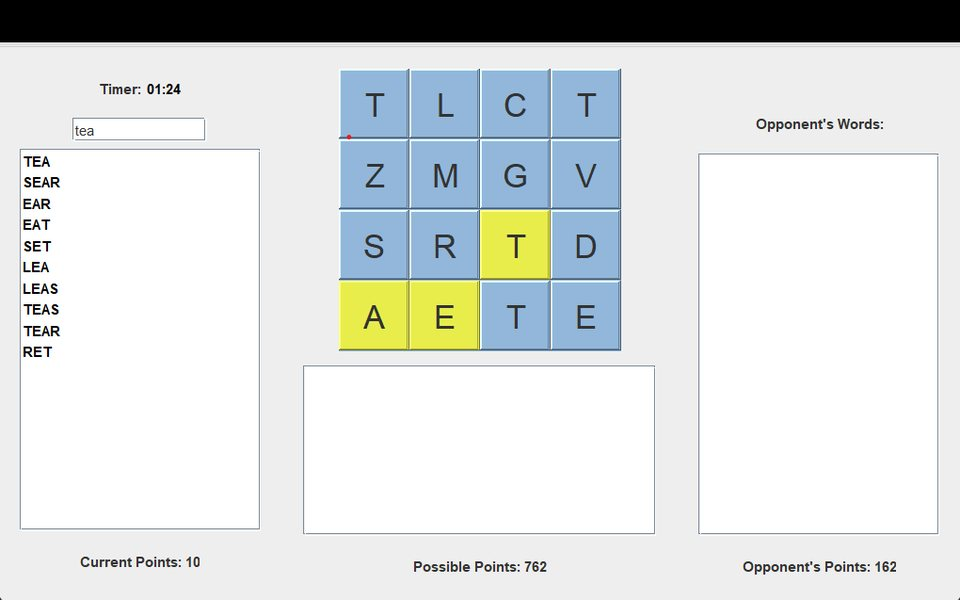
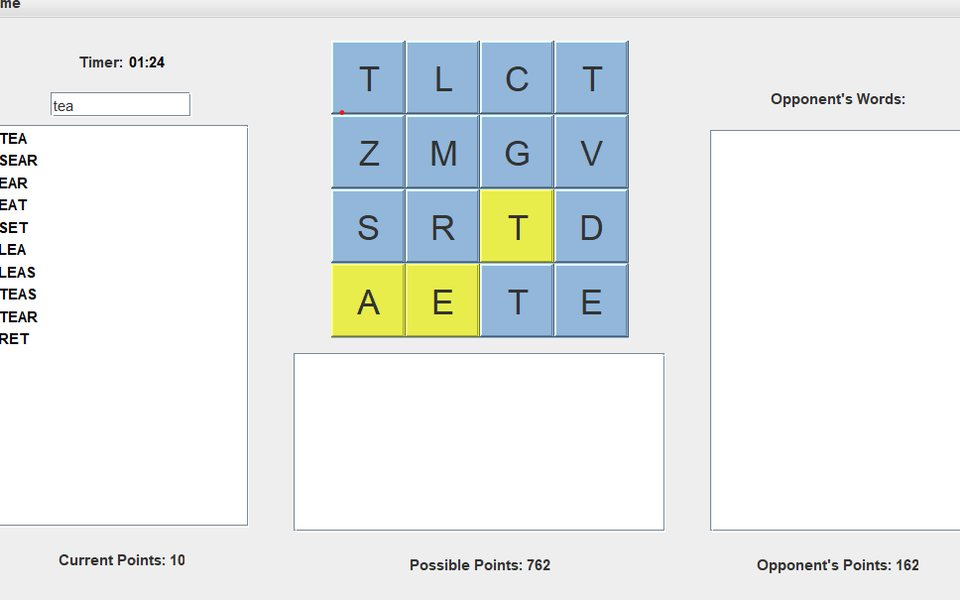
Projects: tighter card copy, fix transparent screenshot covers

diff --git a/_projects/ros.md b/_projects/ros.md
@@ -1,7 +1,7 @@
 ---
 layout: page 
 title: F1TENTH Race Vehicle
-description: A predictive ROS2 system using an Extended Kalman Filter and RGB-D sensor fusion to avoid high-speed dynamic obstacles.
+description: Predictive ROS 2 stack using an EKF and RGB-D sensor fusion to avoid fast obstacles.
 img: assets/img/covers/f1tenth.jpg
 importance: 3
 category: Projects

diff --git a/_projects/tsal.md b/_projects/tsal.md
@@ -1,7 +1,7 @@
 ---
 layout: page 
 title: Tractive System Light
-description: Safety-critical PCB designed for the UBC Formula Electric Quadruna electric race car to monitor voltage differentials. 
+description: Safety-critical PCB monitoring voltage on UBC Formula Electric's Quadruna race car.
 img: assets/img/covers/tsal.jpg
 importance: 4
 category: Projects

diff --git a/_projects/greenpass.md b/_projects/greenpass.md
@@ -1,7 +1,7 @@
 ---
 layout: page
 title: GreenPASS
-description: Collaborative workload shifting framework designed to reduce data center carbon emissions without increasing user costs.
+description: Cuts data center carbon emissions by shifting cloud workloads, at no extra cost to users.
 img: assets/img/covers/greenpass.jpg
 importance: 1
 category: Research

diff --git a/_projects/baja.md b/_projects/baja.md
@@ -1,7 +1,7 @@
 ---
 layout: page 
 title: UBC Baja Mechatronics
-description: Distributed 7-node CAN network (suspension, rear PCB, and steering wheel ECUs) reporting to a Raspberry Pi dashboard.
+description: Seven-node CAN network of STM32 ECUs reporting to a Raspberry Pi dashboard.
 img: assets/img/covers/baja.jpg
 importance: 1
 category: Projects

diff --git a/_projects/egg_roulette.md b/_projects/egg_roulette.md
@@ -1,7 +1,7 @@
 ---
 layout: page
 title: Egg Roulette
-description: A MuJoCo study on the SO-101 arm. Can a robot learn how hard to squeeze from people wearing a touch glove?
+description: "MuJoCo study on the SO-101: can a robot learn grip force from people in a touch glove?"
 img: assets/img/covers/egg_roulette.jpg
 importance: 2
 category: Projects

diff --git a/_projects/wings.md b/_projects/wings.md
@@ -1,7 +1,7 @@
 ---
 layout: page 
 title: Wings Bird Classifier
-description: Image classification pipeline utilizing custom CNNs and transfer learning (ResNet-50) to identify bird species.
+description: Bird species classifier using custom CNNs and ResNet-50 transfer learning.
 img: assets/img/covers/wings.jpg
 importance: 2
 category: Projects

diff --git a/_projects/grid_aware_bess.md b/_projects/grid_aware_bess.md
@@ -1,7 +1,7 @@
 ---
 layout: page
 title: Grid-Aware Cloud
-description: Optimization of Battery Energy Storage Systems (BESS) for data center cost reduction and grid stability.
+description: Battery storage optimization for data center cost reduction and grid stability.
 img: assets/img/covers/grid_aware.jpg
 importance: 2
 category: Research

diff --git a/_projects/todolist.md b/_projects/todolist.md
@@ -1,7 +1,7 @@
 ---
 layout: page
 title: To-Do List App
-description: Application to track and notify about events, reminders, and goals built while I was in high school!
+description: Tracks events, reminders and goals, with notifications. Built in high school.
 img: assets/img/covers/todolist.jpg
 importance: 9
 category: Projects

diff --git a/_projects/iotserver.md b/_projects/iotserver.md
@@ -1,6 +1,6 @@
 ---
 layout: page
-title: Internet of Things Server
+title: IoT Server
 description: Server that exposes actuator control and real-time sensor interfaces to connected clients.
 img: assets/img/covers/iot.jpg
 importance: 5
